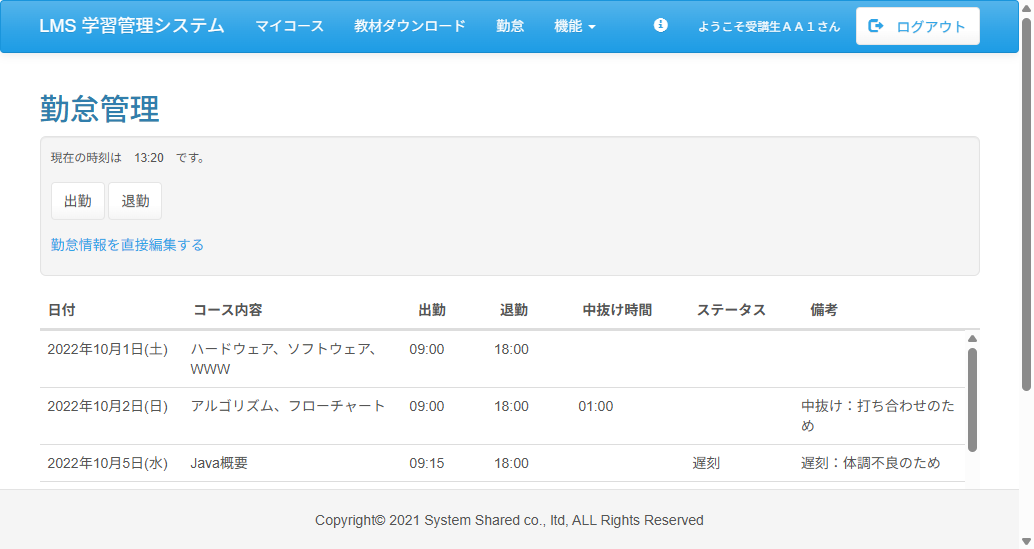
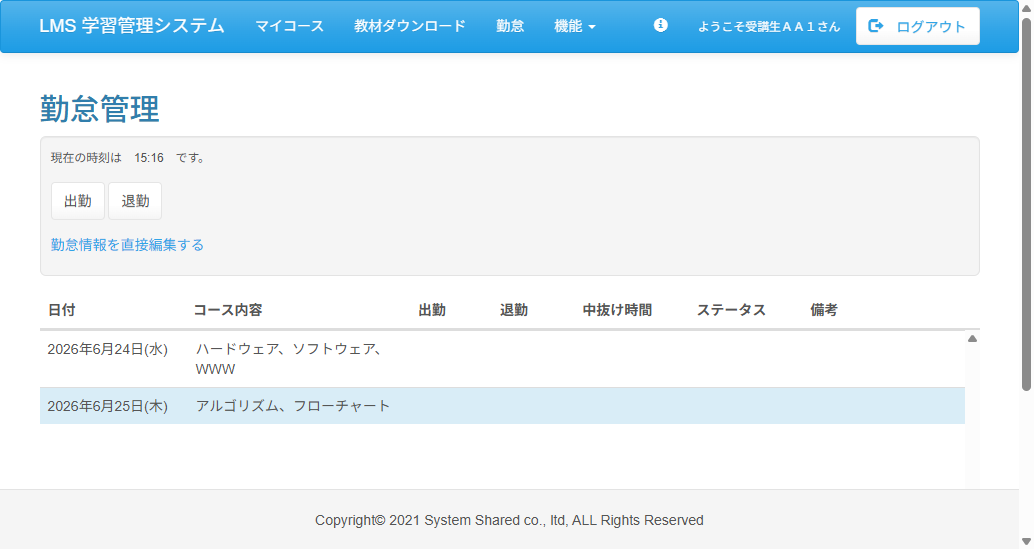
fix:Hibiki ケース10テスト04完成
AttendanceInfoManagementPage.javaに出勤ボタンをフィールドに定義
それをクリックするメソッドと登録された出勤時刻を取得するメソッドを追加
要素をクリックするメソッドとアラートを閉じるメソッドをWebDriverUtils.javaに追加

diff --git a/test_code_creation_name/src/test/java/jp/co/sss/lms/ct/f04_attendance/AttendanceInfoManagementPage.java b/test_code_creation_name/src/test/java/jp/co/sss/lms/ct/f04_attendance/AttendanceInfoManagementPage.java
@@ -1,0 +1,59 @@
+package jp.co.sss.lms.ct.f04_attendance;
+
+import java.time.Duration;
+import java.util.Date;
+
+import org.openqa.selenium.By;
+import org.openqa.selenium.JavascriptExecutor;
+import org.openqa.selenium.WebDriver;
+import org.openqa.selenium.WebElement;
+import org.openqa.selenium.support.FindBy;
+import org.openqa.selenium.support.PageFactory;
+import org.openqa.selenium.support.ui.ExpectedConditions;
+import org.openqa.selenium.support.ui.WebDriverWait;
+
+import jp.co.sss.lms.ct.util.WebDriverUtils;
+import jp.co.sss.lms.util.DateUtil;
+
+public class AttendanceInfoManagementPage {
+
+	private WebDriver driver;
+	
+	private WebDriverWait wait;
+	
+	private JavascriptExecutor js;
+
+	// WebElement
+	@FindBy(xpath = "//input[@type='submit' and @name='punchIn']")
+	private WebElement punchInBtn;
+	
+	private WebElement thePunchIn;
+	
+	public AttendanceInfoManagementPage(WebDriver driver) {
+		this.driver = driver;
+		this.wait = new WebDriverWait(driver, Duration.ofSeconds(10));
+		this.js = (JavascriptExecutor) driver;
+		PageFactory.initElements(driver, this);
+	}
+
+	public void clickPunchInBtn() throws InterruptedException {
+		WebDriverUtils.clickElement(punchInBtn);
+		WebDriverUtils.acceptAlert();
+	}
+
+	public WebElement getThePunchIn() {
+		DateUtil dateUtil = new DateUtil();
+		Date now = new Date();
+		
+		String today = dateUtil.toString(now, "yyyy年M月d日");
+		String punchInTime = dateUtil.dateToString(now, "HH:mm");
+		
+		thePunchIn = driver.findElement(By.xpath(
+			"//td[contains(text(),'" + today + "')]/following-sibling::td[contains(text(),'" + punchInTime + "')]"));
+		
+		wait.until(ExpectedConditions.visibilityOf(punchInBtn));
+		
+		return thePunchIn;
+	}
+	
+}

diff --git a/test_code_creation_name/src/test/java/jp/co/sss/lms/ct/util/WebDriverUtils.java b/test_code_creation_name/src/test/java/jp/co/sss/lms/ct/util/WebDriverUtils.java
@@ -11,6 +11,7 @@ import org.openqa.selenium.JavascriptExecutor;
 import org.openqa.selenium.OutputType;
 import org.openqa.selenium.TakesScreenshot;
 import org.openqa.selenium.WebDriver;
+import org.openqa.selenium.WebElement;
 import org.openqa.selenium.chrome.ChromeDriver;
 import org.openqa.selenium.chrome.ChromeOptions;
 import org.openqa.selenium.support.ui.ExpectedConditions;
@@ -140,5 +141,18 @@ public class WebDriverUtils {
 		Object[] windowHandles = webDriver.getWindowHandles().toArray();
 		webDriver.switchTo().window((String) windowHandles[tabNumber]);
 	}
+	
+	// 自作
+	/**
+	 * 要素を引数に渡すとそれをクリックする
+	 * @param element クリックしたい要素
+	 */
+	public static void clickElement(WebElement element) {
+		JavascriptExecutor js = (JavascriptExecutor) webDriver;
+		js.executeScript("arguments[0].click();", element);
+	}
 
+	public static void acceptAlert() {
+		webDriver.switchTo().alert().accept();
+	}
 }

diff --git a/test_code_creation_name/src/test/java/jp/co/sss/lms/ct/f04_attendance/Case10.java b/test_code_creation_name/src/test/java/jp/co/sss/lms/ct/f04_attendance/Case10.java
@@ -28,12 +28,15 @@ public class Case10 {
 	
 	private static CourseDetailPage courseDetailPage;
 	
+	private static AttendanceInfoManagementPage attendanceInfoManagementPage;
+	
 	/** 前処理 */
 	@BeforeAll
 	static void before() {
 		createDriver();
 		loginPage = new LoginPage(webDriver);
 		courseDetailPage = new CourseDetailPage(webDriver);
+		attendanceInfoManagementPage = new AttendanceInfoManagementPage(webDriver);
 	}
 
 	/** 後処理 */
@@ -79,8 +82,8 @@ public class Case10 {
 	@Test
 	@Order(4)
 	@DisplayName("テスト04 「出勤」ボタンを押下し出勤時間を登録")
-	void test04() {
-		attendanceInfoManagementPage.clickPunchIn();
+	void test04() throws InterruptedException {
+		attendanceInfoManagementPage.clickPunchInBtn();
 		
 		assertNotNull(attendanceInfoManagementPage.getThePunchIn());
 		